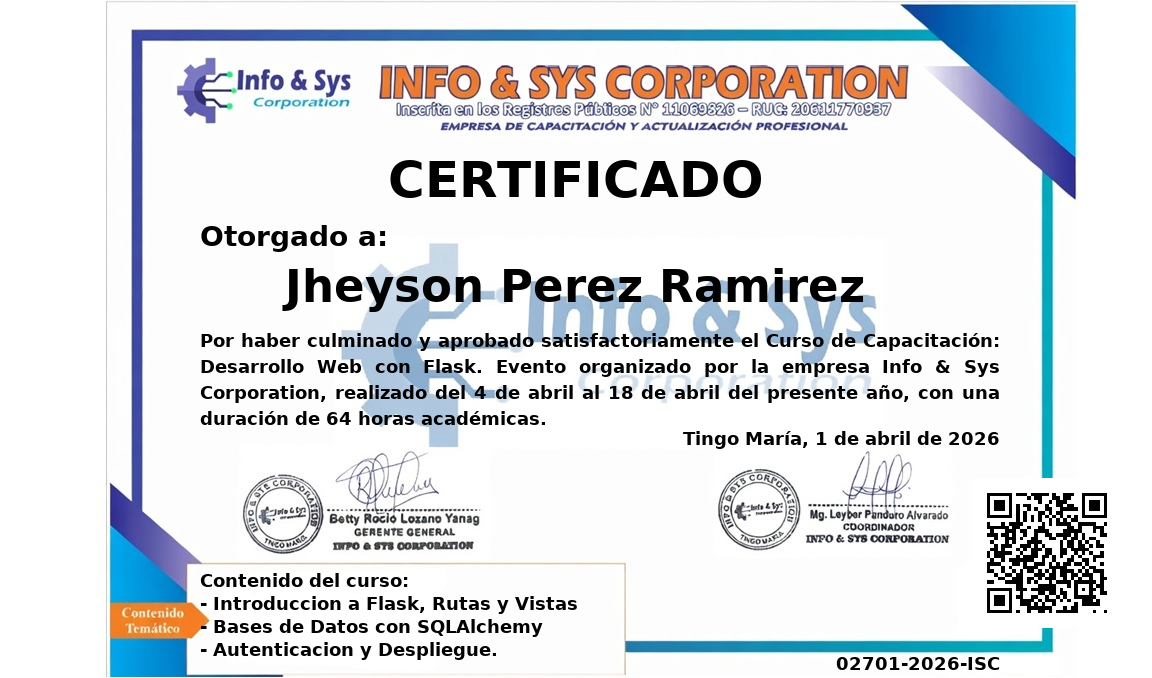
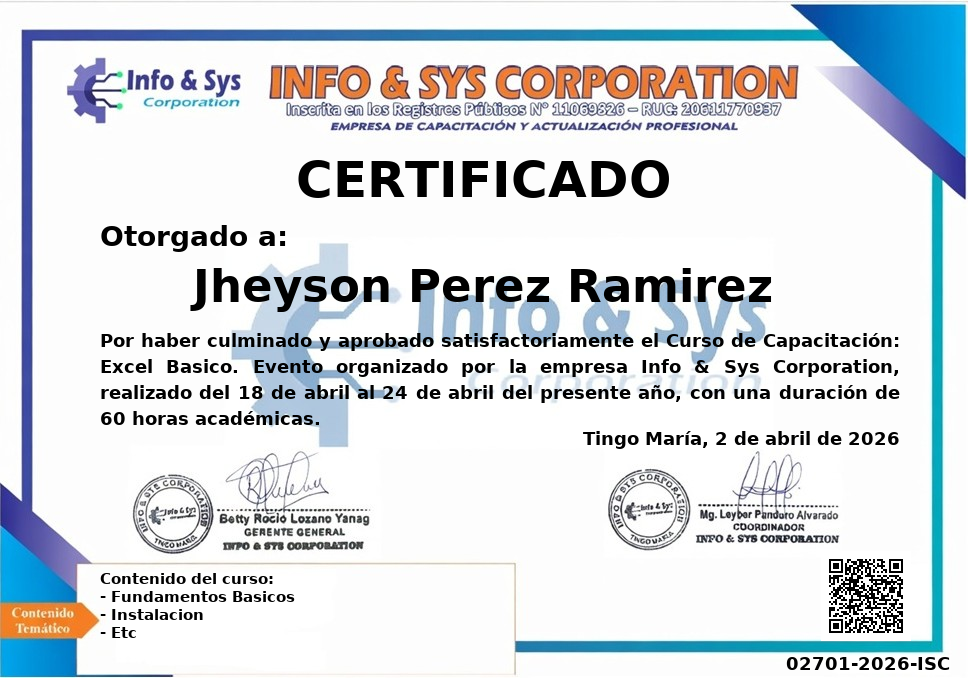
Algunos cambios

diff --git a/application/services/certificate_service.py b/application/services/certificate_service.py
@@ -10,7 +10,6 @@ from infrastructure.database.postgres import db
 
 
 def generate_certificate_image(cert):
-    # 🔹 Usamos snapshot temporal si existe, sino fallback al curso real
     template_name = os.path.basename(
         getattr(cert, "template_snapshot", getattr(cert.course, "certificate_image", "default.png"))
     )
@@ -40,6 +39,11 @@ def generate_certificate_image(cert):
     title_font = load_font(50)
     subtitle_font = load_font(28)
     body_font = load_font(18)
+    syllabus_font_size = 12
+    try:
+        syllabus_font = ImageFont.truetype(body_font.path, syllabus_font_size)
+    except AttributeError:
+        syllabus_font = body_font  
 
     def fit_text(text, max_width, start_size=50, min_size=25):
         size = start_size
@@ -112,27 +116,25 @@ def generate_certificate_image(cert):
         now = datetime.now()
         return f"{now.day} de {meses[now.month - 1]} de {now.year}"
 
-    # 🖋 Títulos
+    # Títulos
     center_text("CERTIFICADO", 150, title_font)
-    x_base = 200
+    x_base = 100
     body_width = 800
     left_text("Otorgado a:", x_base, 220, subtitle_font)
     center_text(cert.student_name, 260, name_font)
 
-    # Contenido del curso 
+    # Contenido del curso
     syllabus_text = getattr(cert, "syllabus_snapshot", getattr(cert.course, "syllabus", "Contenido no disponible"))
+    syllabus_lines = syllabus_text.splitlines()
+    x_syllabus = x_base
+    y_syllabus = 570
+    line_spacing = 15
 
-    syllabus_lines = syllabus_text.splitlines() 
-    x_syllabus = x_base      
-    y_syllabus = 570       
-    line_spacing = 23       
-
-    draw.text((x_syllabus, y_syllabus), "Contenido del curso:", fill="black", font=body_font)
+    draw.text((x_syllabus, y_syllabus), "Contenido del curso:", fill="black", font=syllabus_font)
     y_syllabus += line_spacing
 
-    # Syllabus como lista
     for line in syllabus_lines:
-        draw.text((x_syllabus, y_syllabus), f"- {line}", fill="black", font=body_font)
+        draw.text((x_syllabus, y_syllabus), f"- {line}", fill="black", font=syllabus_font)
         y_syllabus += line_spacing
 
     # Texto principal
@@ -154,17 +156,17 @@ def generate_certificate_image(cert):
     draw.text((x_fecha, y_fecha), fecha_texto, fill="black", font=body_font)
 
     codigo_texto = cert.code
-    bbox = draw.textbbox((0, 0), codigo_texto, font=body_font)
+    bbox = draw.textbbox((0, 0), codigo_texto, font=syllabus_font)
     text_width = bbox[2] - bbox[0]
-    x_codigo = x_base + body_width - text_width
+    x_codigo = x_base + body_width - text_width + 19
     y_codigo = y_fecha + 225
-    draw.text((x_codigo, y_codigo), codigo_texto, fill="black", font=body_font)
+    draw.text((x_codigo, y_codigo), codigo_texto, fill="black", font=syllabus_font)
 
     # QR
-    qr_url = f"https://infosys-web.onrender.com/certificate/{cert.code}"
-    qr = qrcode.make(qr_url).resize((150, 150))
-    qr_x = image.width - 180
-    qr_y = image.height - 200
+    qr_url = f"https://infosys-web.onrender.com/certificados?code={cert.code}"
+    qr = qrcode.make(qr_url).resize((90, 90))
+    qr_x = image.width - 147
+    qr_y = image.height - 127
     image.paste(qr, (qr_x, qr_y))
 
     return image
@@ -175,7 +177,6 @@ def create_certificate(student_name, student_dni, course_id, code, start_date, e
     if not course:
         raise ValueError("Curso no encontrado")
 
-    # Guardamos snapshot del syllabus y template
     cert = Certificate(
         student_name=student_name,
         student_dni=student_dni,
